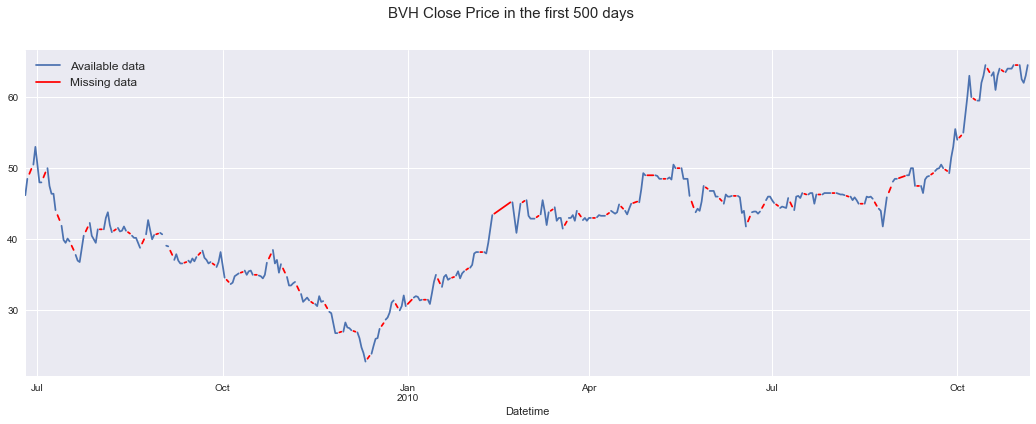
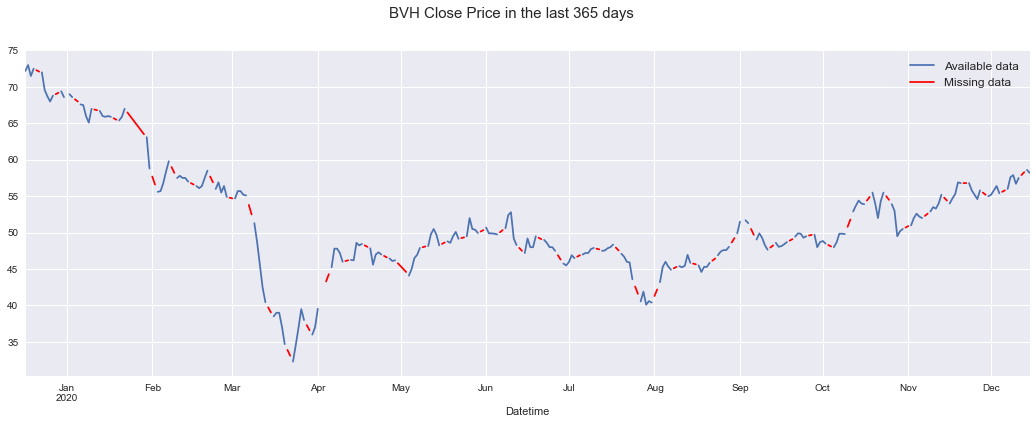
Hoàn thiện báo cáo 1
- Thêm nội dung chính các phần của đồ án

diff --git a/README.md b/README.md
@@ -40,7 +40,9 @@ Học kì II, 2019 - 2020
   * `Low`: giá thấp nhất.
   * `Close`: giá đóng cửa.
 * Dữ liệu (chưa tiền xử lý), sau khi đưa cột `Date` thành index, có 2868 dòng và 4 cột, với cả 4 cột đều có kiểu dữ liệu `float`:
+
 ![image](./img/data_1.PNG)
+
 ![image](./img/data_2.PNG)
 
 #### Các vấn đề sau khi thu thập dữ liệu
@@ -53,32 +55,71 @@ Học kì II, 2019 - 2020
 
 ### 3.1 Tiền xử lý dữ liệu
 
-* **wip---**
+* **Cách xử lý**: Thêm những điểm dữ liệu thiếu bằng đoạn giữa với 2 đầu là 2 điểm quan sát được. (VD: [1, nan, nan, 7] -> [1, 3, 5, 7])
+* Sau khi tiền xử lý, dữ liệu mới gồm có 4193 dòng và 4 cột:
+
+![image](./img/data_3.PNG)
 
 ### 3.2 Trực quan hóa dữ liệu
 
-* Sau bước tiền xử lý, ta có biểu đồ giá đóng cho cổ phiếu BVH như sau:
+* Ta có biểu đồ giá đóng cho cổ phiếu BVH như sau:
 ![image](./img/vis_1.png)
-* Biểu đồ dưới đây chỉ thể hiện giá trong 500 ngày đầu để dễ nhìn hơn số liệu thiếu được thêm vào:
+* Biểu đồ dưới đây chỉ thể hiện giá trong 365 ngày cuối để dễ nhìn hơn số liệu thiếu được thêm vào:
 ![image](./img/vis_2.png)
 * Với bộ dữ liệu được xử lý đầy đủ, ta sẽ thực hiện phân tích thành phần chuỗi thời gian (**Time-series decomposition**) cho dãy giá đóng. Quá trình này cho phép chuỗi thời gian được thể hiện qua 3 đặc trưng chính là **Trend**, **Seasonality** và **Noise**:
 ![image](./img/vis_3.png)
-* **adding---**
+* Ta có nhận xét: chuỗi thời gian hoàn toàn không có tính **seasonality** hay có xu hướng - **trend** nào rõ rệt. Hơn nữa, xét về **noise**, dữ liệu mang tính khá ngẫu nhiên.
 * Ta cũng xem qua **Autocorrelation** và **Partial autocorrelation** cho chuỗi thời gian:
 ![image](./img/vis_4.png)
-* **adding---**
+* Theo biểu đồ **Autocorrelation**, đến lag thứ 50, autocorrelation function ở các lag này có giá trị cách biệt đáng kể so với 0 (*statistically significant*). Có nghĩa là, giá cổ phiếu, ở đây đang xét của BVH, có tính tự tương quan lớn, tức là, nếu giá có tăng, nó thường sẽ tiếp tục tăng và ngược lại.
+* Ở biểu đồ **Partial autocorrelation**, có rất nhiều lag có giá trị vượt khỏi vùng màu xanh khoảng tin cậy. Các giá trị này có thể được nhận xét là chúng mang tính *statistically significant*.
 
 ### 3.2 Mô hình hóa
 
-* **wip---**
+* **Tách dữ liệu**: Dữ liệu ban đầu được chia thành 3 tập: train, validation, test với tỉ lệ (gần đúng) 70% - 15% - 15%.
+* **Chuẩn hóa dữ liệu**: Nhóm sử dụng MinMaxScaler để chuẩn hóa dữ liệu về `range(0, 1)`.
+* **Chuyển dữ liệu về các timestep sequences**:
+    * Tập X (input) chứa dữ liệu giá đóng cửa *step* ngày trước ngày *n* cần dự đoán.
+    * Tập Y (output) chứa dữ liệu giá đóng cửa 1 ngày *n* cần dự đoán.
+    * Biến **lag** là khoảng cách giữa **ngày dự đoán** đến **ngày quan sát được gần nhất - 1**. VD:
+        * lag=0 -> Y(n) = f(O(n-1), O(n-2),...)
+        * lag=2 -> Y(n) = f(O(n-3), O(n-4),...)
 
 ### 3.3 Train model
 
-* **wip---**
+* Nhóm sử dụng **mô hình LSTM** của thư viện `keras`,  sau đó, thực hiện validation với các tham số `step`, `lag` và `batch_size` (log khi train được lưu ở file "model_log.txt").
+* Kết quả chọn ra các model tốt nhất cho từng lag:
 
-### 3.4 Output
+![image](./img/model_1.PNG)
 
-* **wip---**
+* Trực quan hóa các model được chọn trên tập validation:
+![image](./img/lag_0.png)
+
+![image](./img/lag_1.png)
+
+![image](./img/lag_3.png)
+
+### 3.4 Kết quả
+
+* Kết quả cho thấy được độ lỗi của `lag = 1, 3` cao hơn nhiều so với `lag = 0`, nhóm quyết định chỉ chọn model tốt nhất `lag = 0` làm model cuối cùng.
+* Độ lỗi của model cuối trên tập test:
+
+![image](./img/err_1.png)
+
+![image](./img/err_2.png)
+
+![image](./img/err_3.png)
+
+![image](./img/err_4.png)
+
+### 3.5 Dự đoán
+
+* Nhóm thử dự đoán giá đóng cửa cho 7 ngày tiếp theo, với mỗi ngày dự đoán được thêm vào chuỗi quan sát để dự đoán cho ngày tiếp theo:
+    * Y(n) = f(O(n-1), O(n-2),...)
+    * Y(n+1) = f(Y(n), O(n-1), O(n-2),...)
+* Kết quả thu được như sau:
+
+![image](./img/predict_1.png)
 
 ## 4. Đánh giá
 
@@ -86,8 +127,8 @@ Học kì II, 2019 - 2020
 
 | Tên  |MSSV|Công việc thực hiện|
 |-|:-:|-:|
-| Trần Minh Trí |1712834|-------|
-| Nguyễn Nhật Trường |1712852|-------|
+| Trần Minh Trí |1712834| Huấn luyện mô hình |
+| Nguyễn Nhật Trường |1712852| Thu thập, khám phá dữ liệu + Báo cáo |
 
 ### 4.2 Đánh giá đồ án
 
